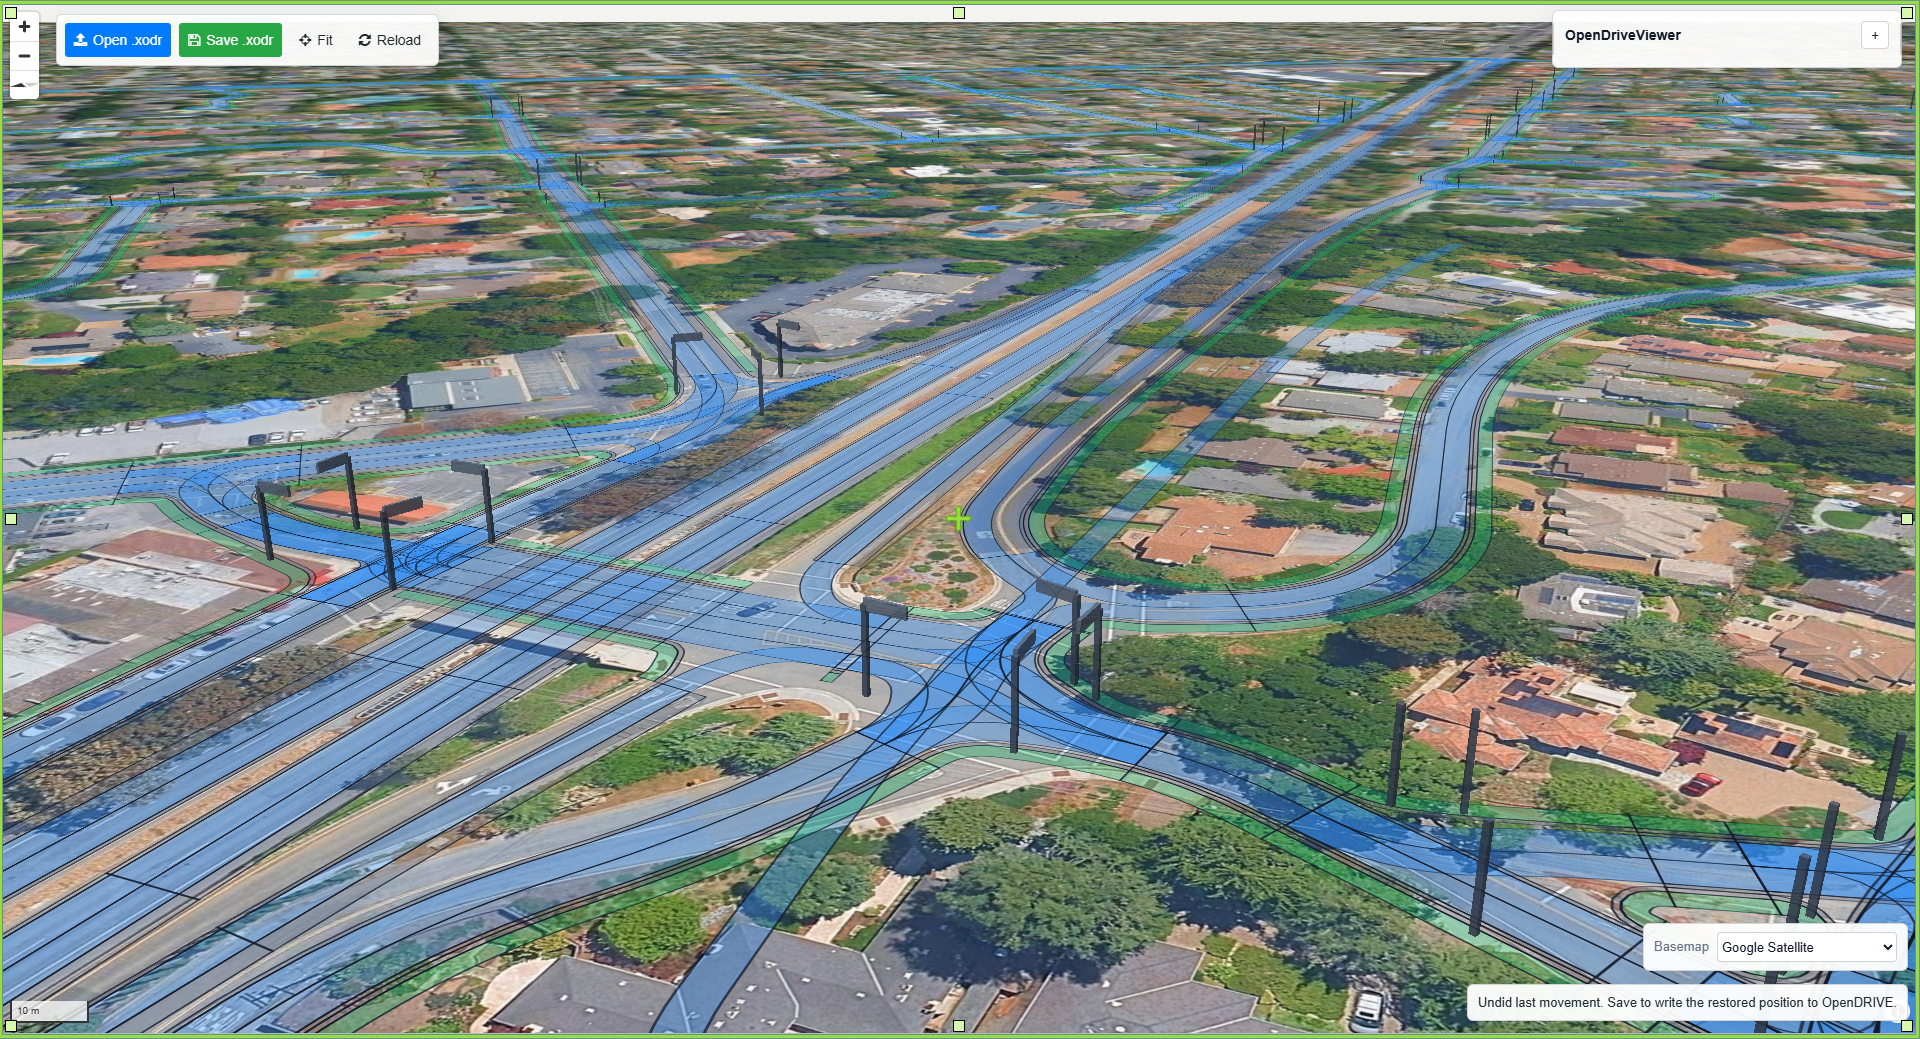
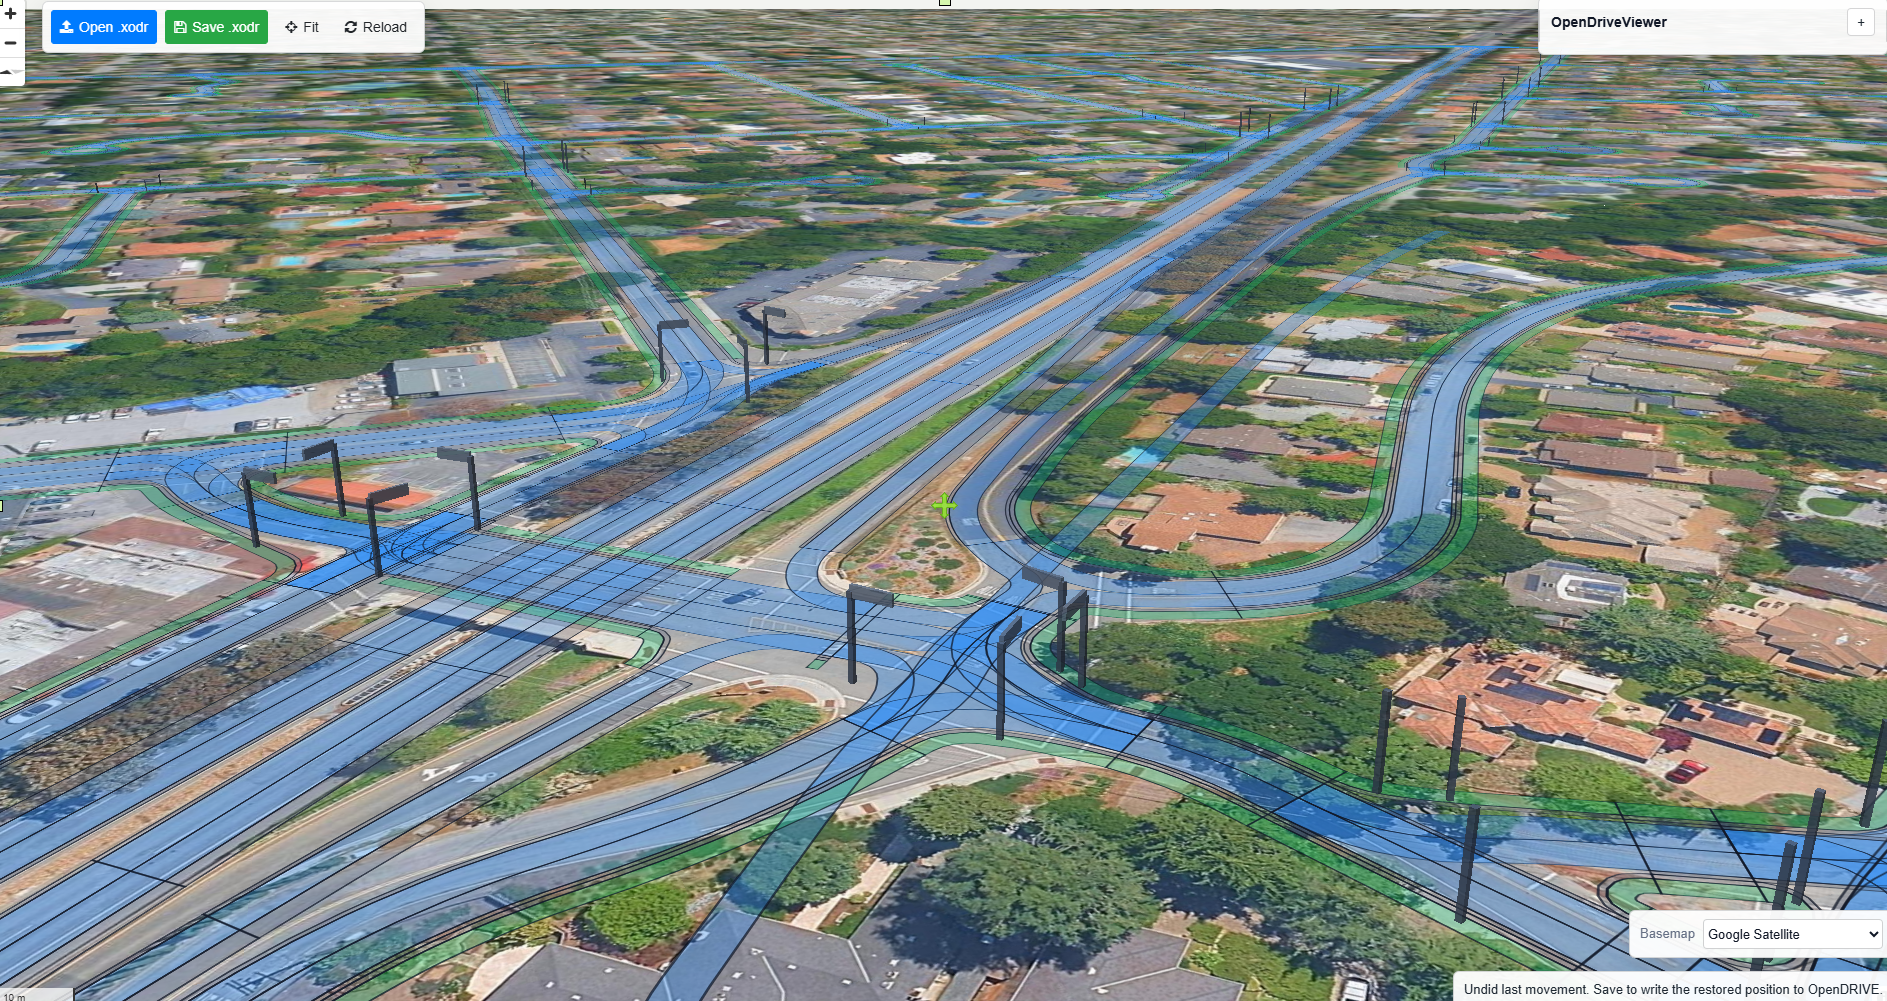
docs:adjust images

diff --git a/README.md b/README.md
@@ -30,7 +30,7 @@
   <source src="./docs/img/bigtown.mp4" type="video/mp4">
 </video>
 
-![Bigtownpng](docs/img/bigtown.png)
+[![Bigtownpng](docs/img/bigtown.png)](docs/img/bigtown.mp4)
 ![Bigtownpng01](docs/img/bigtown01.png)
 ![chatpng](docs/img/chatt.png)
 
